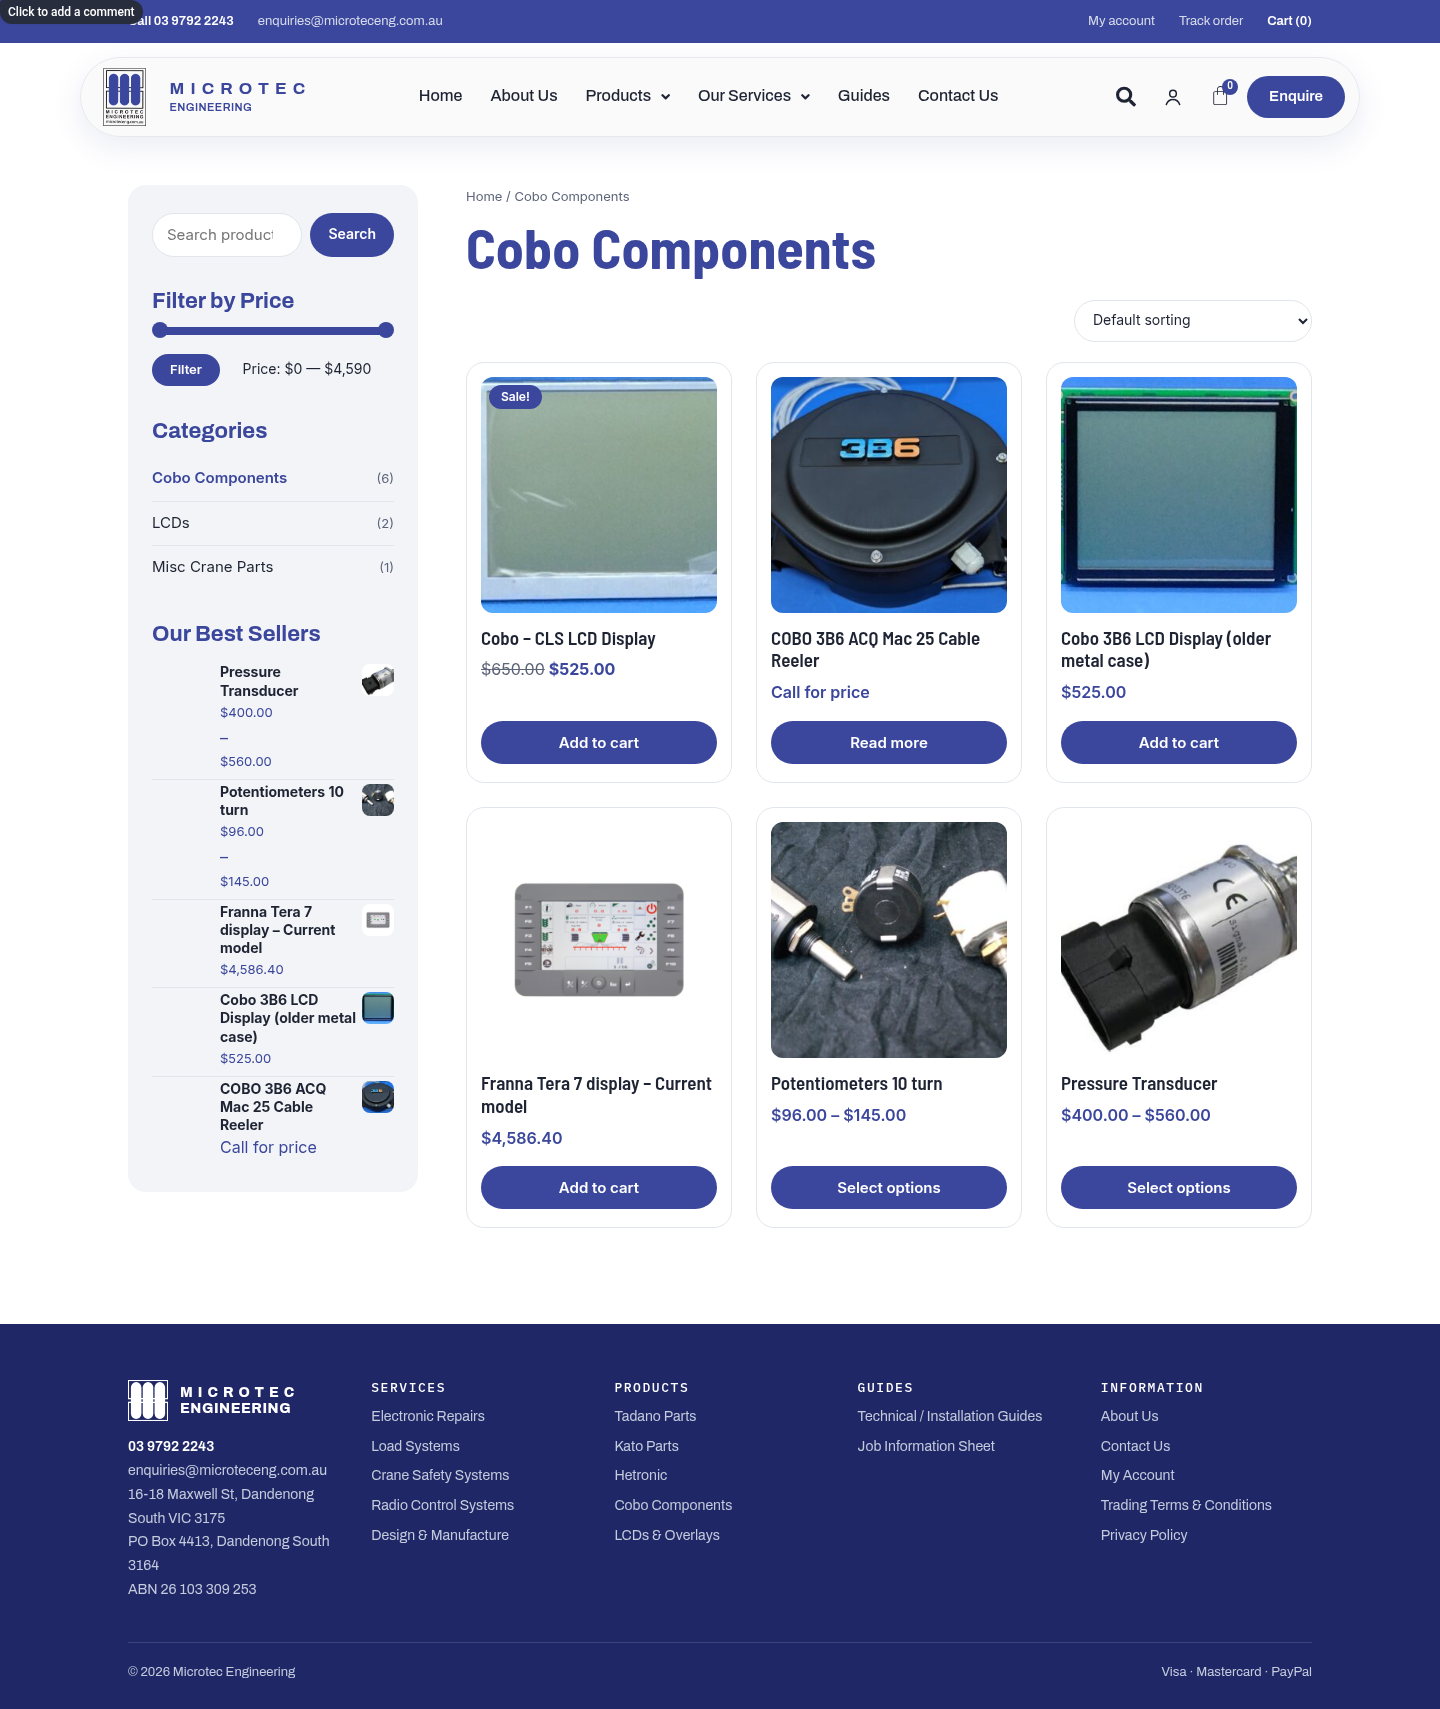
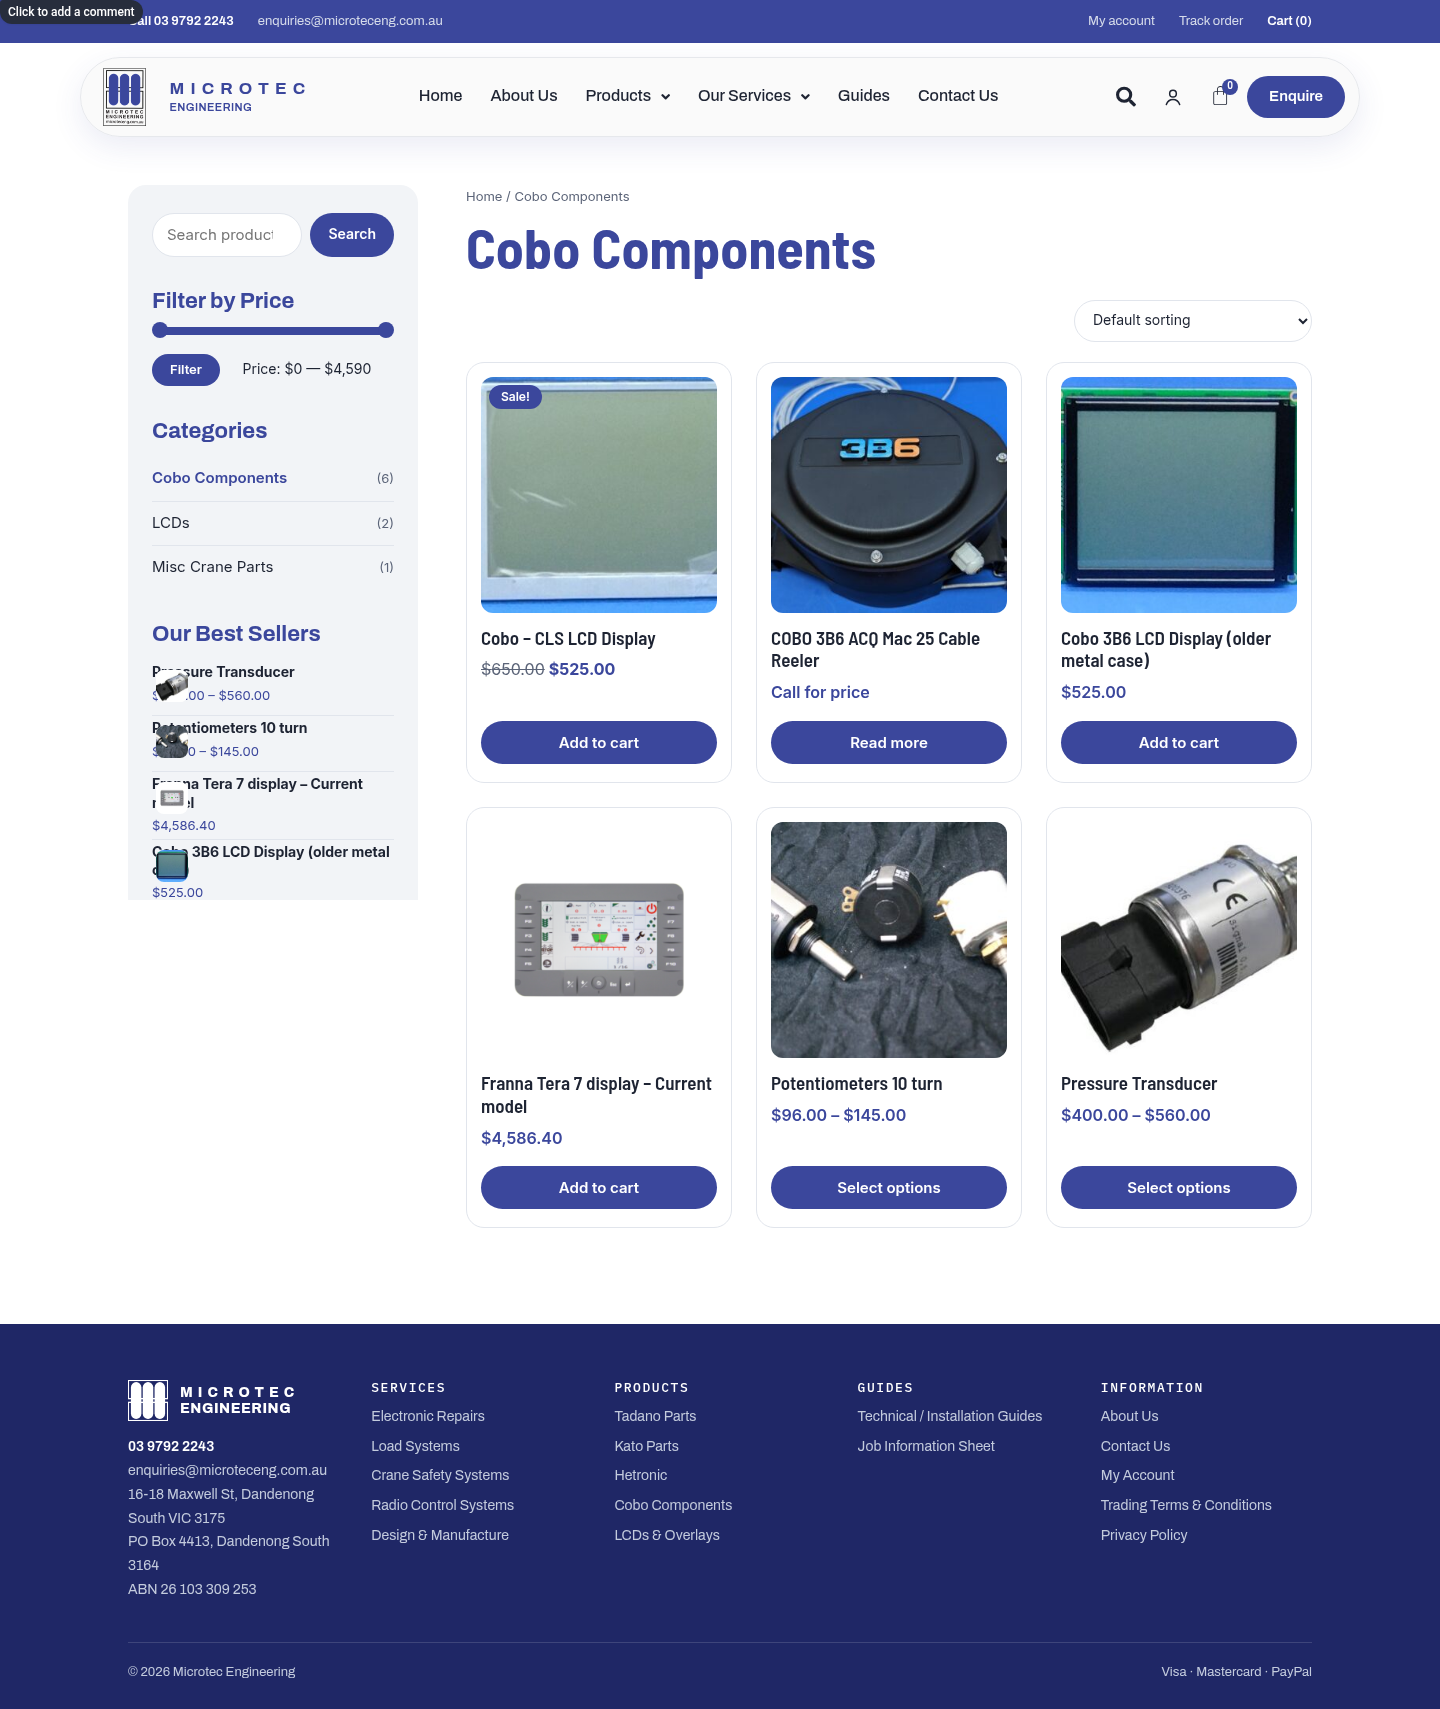
Shop sidebar: best sellers rules outrank WooCommerce's widget list styles
Claude-Session: https://claude.ai/code/session_01MjuF5y9GywKpULBg13vquR

Changed region(s): [[0.0938, 0.3721, 0.2812, 0.6823], [0.25, 0.3721, 0.2812, 0.4032]]

diff --git a/wp-build/theme/assets/css/mt-shop.css b/wp-build/theme/assets/css/mt-shop.css
@@ -132,12 +132,12 @@ body.mt-catalog #main {
 .mt-shop .product-categories .count { color: var(--mt-muted); font-size: 13px; }
 
 /* Best sellers */
-.mt-shop .product_list_widget {
+body.mt-catalog .mt-shop ul.product_list_widget {
 	list-style: none;
 	margin: 0;
 	padding: 0;
 }
-.mt-shop .product_list_widget li {
+body.mt-catalog .mt-shop ul.product_list_widget li {
 	position: relative;
 	min-height: 56px;
 	padding: 10px 0 10px 68px;
@@ -146,8 +146,8 @@ body.mt-catalog #main {
 	line-height: 1.4;
 	color: var(--mt-blue);
 }
-.mt-shop .product_list_widget li:last-child { border-bottom: 0; }
-.mt-shop .product_list_widget li a {
+body.mt-catalog .mt-shop ul.product_list_widget li:last-child { border-bottom: 0; }
+body.mt-catalog .mt-shop ul.product_list_widget li a {
 	display: block;
 	margin-bottom: 4px;
 	color: var(--mt-ink);
@@ -156,8 +156,8 @@ body.mt-catalog #main {
 	font-weight: 600;
 	line-height: 1.3;
 }
-.mt-shop .product_list_widget li a:hover { color: var(--mt-blue); }
-.mt-shop .product_list_widget li img {
+body.mt-catalog .mt-shop ul.product_list_widget li a:hover { color: var(--mt-blue); }
+body.mt-catalog .mt-shop ul.product_list_widget li img {
 	position: absolute;
 	left: 0;
 	top: 10px;
@@ -169,8 +169,8 @@ body.mt-catalog #main {
 	background: #fff;
 	border-radius: 8px;
 }
-.mt-shop .product_list_widget li del { color: var(--mt-muted); }
-.mt-shop .product_list_widget li ins { text-decoration: none; }
+body.mt-catalog .mt-shop ul.product_list_widget li del { color: var(--mt-muted); }
+body.mt-catalog .mt-shop ul.product_list_widget li ins { text-decoration: none; }
 
 /* ---- Main column ---- */
 
